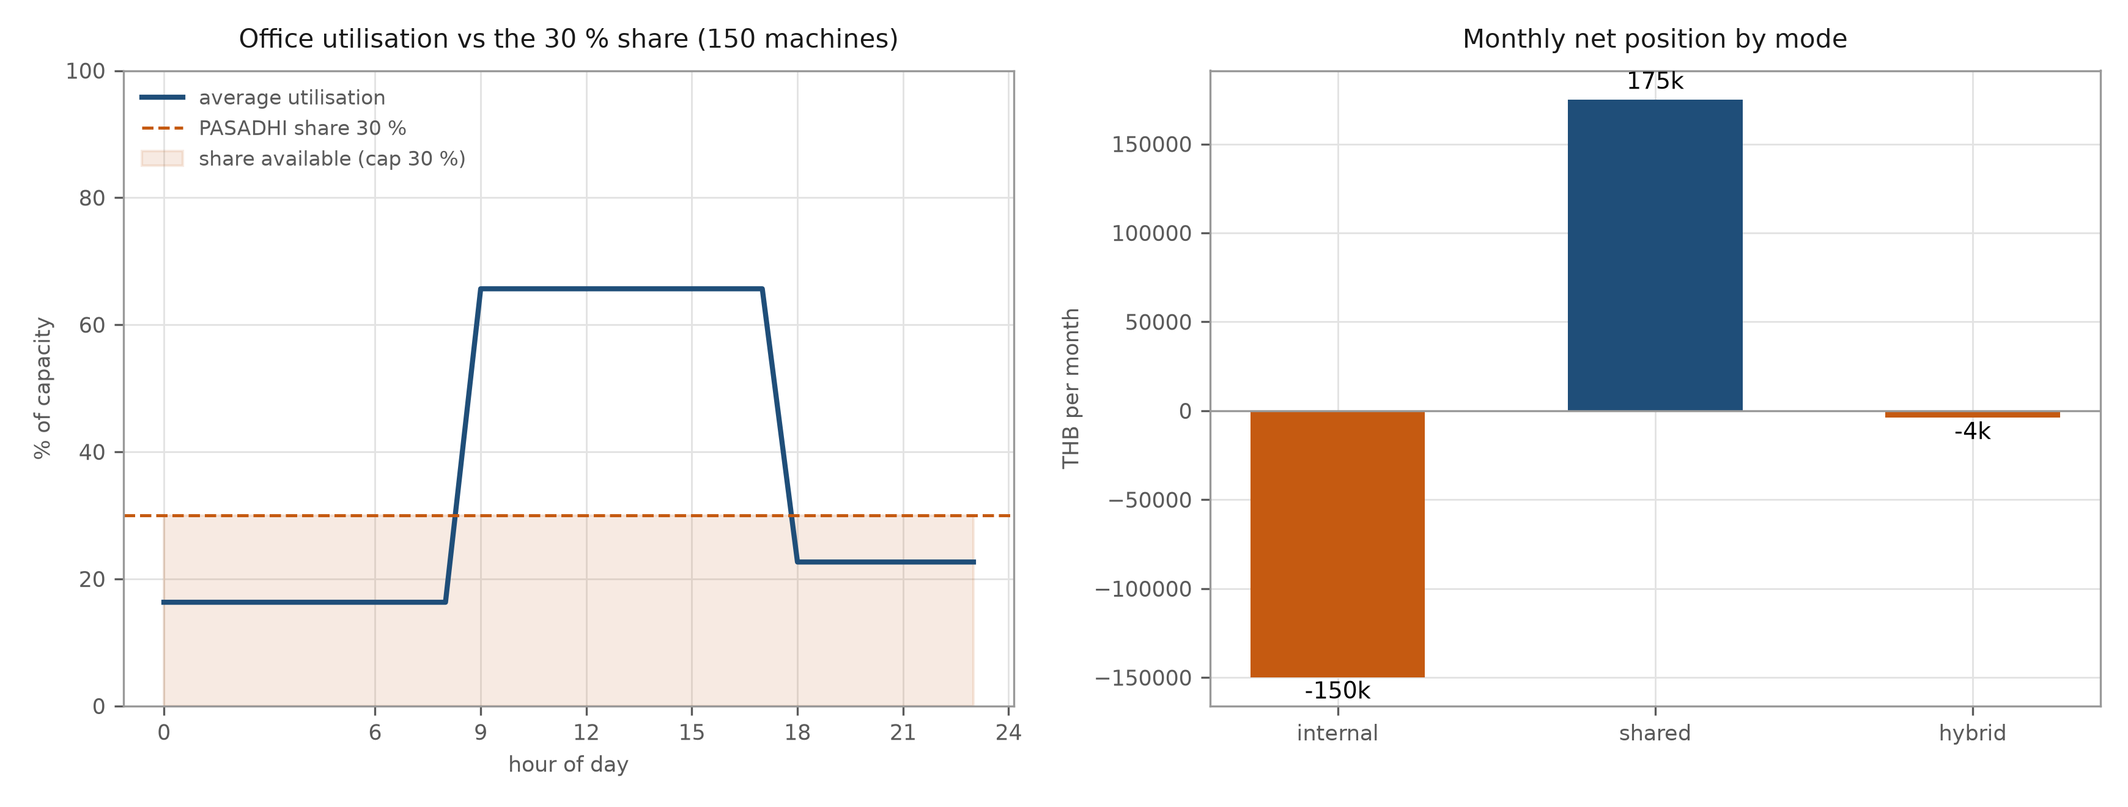
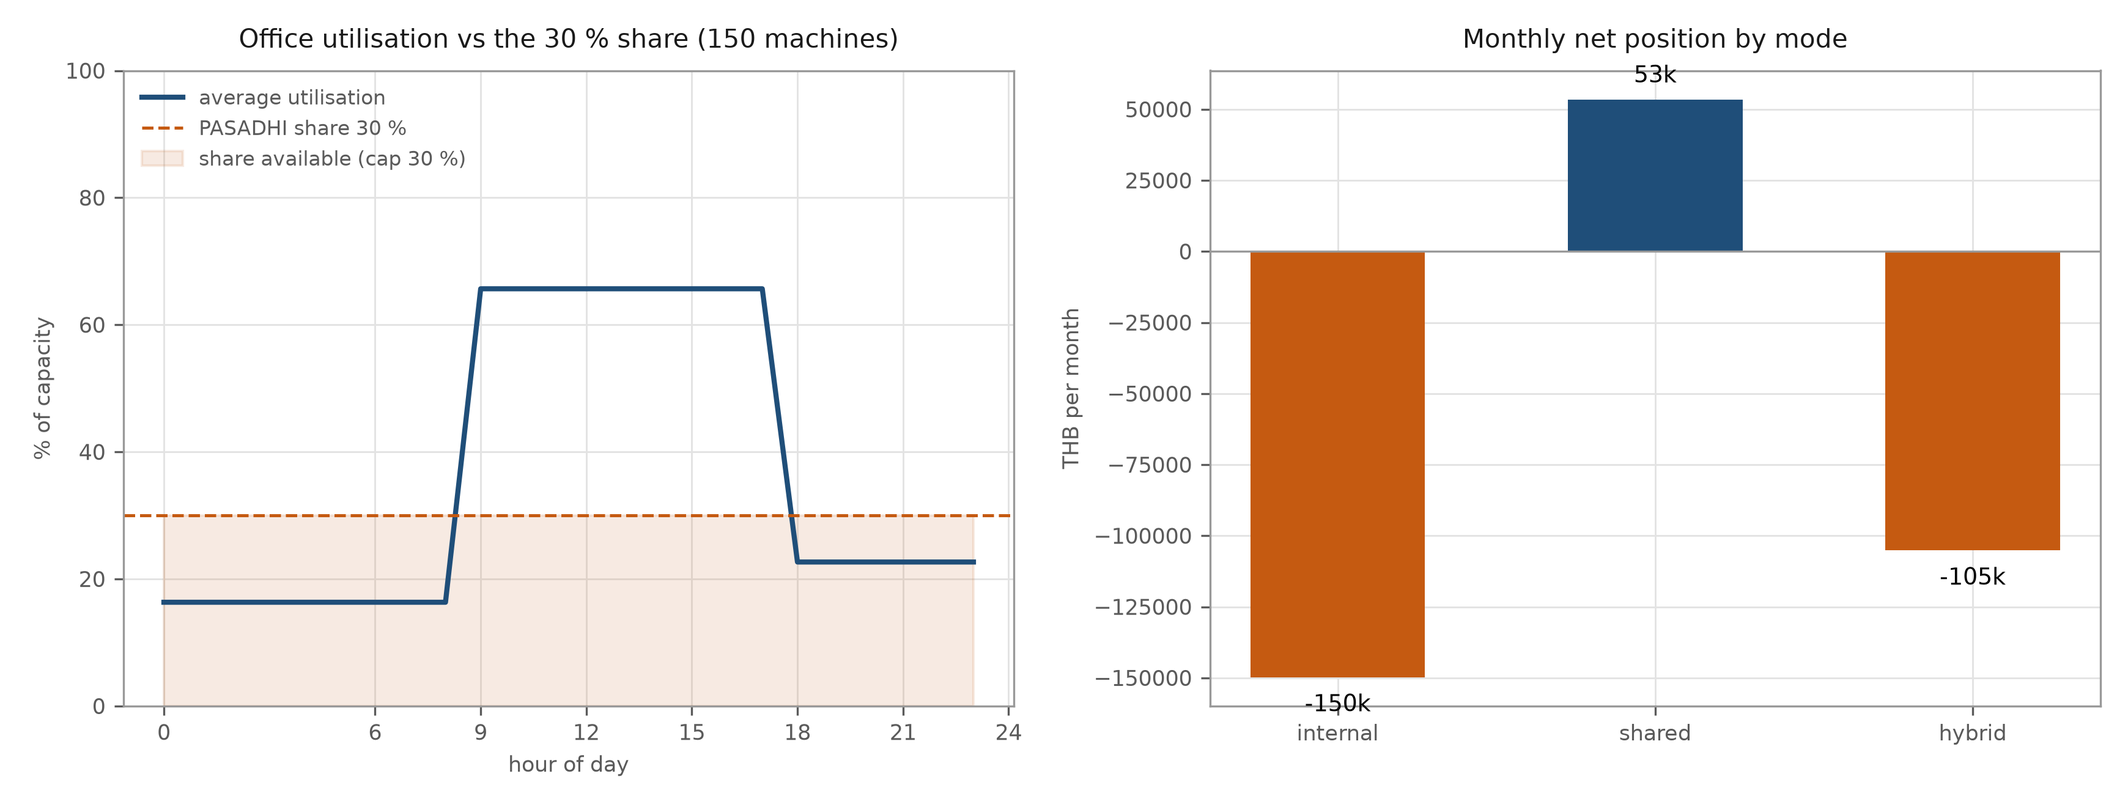
feat(pricing): pay by measured impact weight, not a flat rate per core-hour
- app/impact.py: weights from the resource sweep (CPU 98 %, RAM 0.4 %, disk 1.0 %,
  net 0.6 %; with a GTX 1050: CPU 56.6 %, GPU 42.2 %), pool 2.50 THB/h per 4 threads
- app/budget.py and app/group.py now delegate to impact valuation
- consequence, stated plainly: at a 30 % share the group earns 53 460 THB/month,
  not 175 032; break-even needs ~60 % share or a ~350 THB subscription
- docs/IMPACT_PRICING.th.md, corrected numbers in docs/GROUP.th.md, fig07 rebuilt

diff --git a/app/group.py b/app/group.py
@@ -15,6 +15,12 @@ import argparse
 import hashlib
 import json
 import secrets
+import sys
+from pathlib import Path
+
+if __package__ in (None, ''):
+    sys.path.insert(0, str(Path(__file__).resolve().parents[2]))
+
 from dataclasses import dataclass, field, asdict
 from pathlib import Path
 
@@ -58,54 +64,66 @@ class Group:
 BANDS = {'day': (9, 18), 'evening': (18, 24), 'night': (0, 9)}
 
 
-def node_hours_available(group: Group, days=30, weekday_ratio=0.73) -> dict:
-    """How many node-hours per month can actually be shared, given each machine's own utilisation."""
-    total = {'day': 0.0, 'evening': 0.0, 'night': 0.0}
+def machine_hours_month(group: Group, days=30) -> list:
+    """Usable hours per machine type per month, honouring each machine's own utilisation."""
+    weekday_days, weekend_days = 22, 8
+    rows = []
     for machine in group.machines:
+        hours = 0.0
         for band, (start, end) in BANDS.items():
-            hours = end - start
-            utilisation = machine.profile[band]
-            usable = max(0.0, min(group.share_pct, 1.0 - utilisation))
-            total[band] += usable * hours * machine.nodes
+            span = end - start
+            usable = max(0.0, min(group.share_pct, 1.0 - machine.profile[band]))
+            weekday = span if band != 'night' else 24  # night band is charged daily below
+            if band == 'night':
+                hours += usable * span * days
+            else:
+                hours += usable * span * weekday_days + usable * span * weekend_days
+        rows.append({'machine': machine, 'hours_month': hours * machine.nodes})
+    return rows
 
-    weekday_hours = total['day'] * 22 + total['evening'] * 22 + total['night'] * 30
-    weekend_hours = total['day'] * 8 + total['evening'] * 8 + total['night'] * 8
-    month_hours = weekday_hours + weekend_hours
-    return {'band_hours_per_day': {k: round(v, 1) for k, v in total.items()},
-            'node_hours_month': round(month_hours, 0),
-            'thread_hours_month': round(month_hours * (sum(m.threads * m.nodes for m in group.machines)
-                                                       / max(1, sum(m.nodes for m in group.machines))), 0)}
+
+def node_hours_available(group: Group, days=30) -> dict:
+    rows = machine_hours_month(group, days)
+    total = sum(row['hours_month'] for row in rows)
+    threads = sum(m.threads * m.nodes for m in group.machines)
+    machines = sum(m.nodes for m in group.machines)
+    return {'node_hours_month': round(total, 0),
+            'thread_hours_month': round(total * (threads / max(1, machines)), 0)}
 
 
 def economics(group: Group) -> dict:
+    from pasadhi.app import impact
+
     totals = group.totals()
-    hours = node_hours_available(group)
-    threads_per_node = totals['threads'] / max(1, totals['machines'])
-    shared_thread_hours = hours['node_hours_month'] * threads_per_node
+    rows = machine_hours_month(group)
+    shared = 0.0
+    for row in rows:
+        machine = row['machine']
+        result = impact.node_value(
+            impact.Share(cpu_pct=int(group.share_pct * 100), gpu_pct=0, ram_pct=int(group.share_pct * 100),
+                         disk_pct=int(group.share_pct * 100), network_pct=int(group.share_pct * 100)),
+            threads=machine.threads, ram_gb=32.0, vram_gb=0.0)
+        shared += row['hours_month'] * result['hourly_thb']
 
-    shared_earnings = shared_thread_hours * RATE_PER_CORE_HOUR_THB
-
-    list_price = LIST_PRICE_THB * (1 - GROUP_DISCOUNT) if group.plan != 'premium' else PREMIUM_PRICE_THB * (1 - GROUP_DISCOUNT * 0.5)
+    list_price = (LIST_PRICE_THB * (1 - GROUP_DISCOUNT) if group.plan != 'premium'
+                  else PREMIUM_PRICE_THB * (1 - GROUP_DISCOUNT * 0.5))
     subscription = list_price * totals['machines']
 
     if group.mode == 'internal':
         net = -subscription
     elif group.mode == 'shared':
-        net = shared_earnings
+        net = shared
     else:
         reserved = group.reserve_pct / max(group.share_pct, 1e-9)
-        net = shared_earnings * (1 - reserved) - subscription
-
-    capacity_gflops = totals['peak_gflops'] * group.share_pct
+        net = shared * (1 - reserved) - subscription
 
     return {
         'machines': totals['machines'],
         'threads': totals['threads'],
         'peak_gflops': totals['peak_gflops'],
-        'shared_capacity_gflops': round(capacity_gflops, 1),
-        'node_hours_month': hours['node_hours_month'],
-        'shared_thread_hours_month': round(shared_thread_hours, 0),
-        'shared_earnings_thb_month': round(shared_earnings, 0),
+        'shared_capacity_gflops': round(totals['peak_gflops'] * group.share_pct, 1),
+        'node_hours_month': node_hours_available(group)['node_hours_month'],
+        'shared_earnings_thb_month': round(shared, 0),
         'subscription_thb_month': round(subscription, 0),
         'net_thb_month': round(net, 0),
         'per_node_month': round(net / totals['machines'], 0),

diff --git a/app/impact.py b/app/impact.py
@@ -1,0 +1,97 @@
+"""Value a contribution by the measured impact of each resource, not by a flat rate.
+
+The weights come from `bench/results/resource_impact.json` (measured on an i7-8550U):
+    CPU 98.0 % · RAM 0.4 % · DISK 1.0 % · NET 0.6 %            (no NVIDIA GPU)
+    CPU 56.6 % · GPU 42.2 % · RAM 0.2 % · DISK 0.6 % · NET 0.4 % (with a GTX 1050)
+
+A node-hour is worth `pool` THB, and the user receives `pool × Σ(share_i × weight_i)`.
+Sharing 100 % of a 4-thread reference node therefore pays exactly 2.50 THB/hour, which is the credit rate
+used by the commercial model. Two other profiles exist because the weights are workload-dependent: when jobs
+are large, RAM becomes the gate; when the fleet is GPU-heavy, the card dominates.
+"""
+from __future__ import annotations
+
+import sys
+from pathlib import Path
+
+if __package__ in (None, ''):
+    sys.path.insert(0, str(Path(__file__).resolve().parents[2]))
+
+from dataclasses import dataclass
+
+# Measured shares (this host / with a card) and two workload-dependent assumptions.
+PROFILES = {
+    'small_jobs': {'CPU': 0.980, 'GPU': 0.000, 'RAM': 0.004, 'DISK': 0.010, 'NET': 0.006},
+    'with_gpu': {'CPU': 0.566, 'GPU': 0.422, 'RAM': 0.002, 'DISK': 0.006, 'NET': 0.004},
+    'large_jobs': {'CPU': 0.550, 'GPU': 0.000, 'RAM': 0.300, 'DISK': 0.100, 'NET': 0.050},
+}
+
+POOL_THB_PER_REFERENCE_HOUR = 2.50   # 4 threads, fully shared
+REFERENCE_THREADS = 4
+GPU_POOL_THB_PER_HOUR = 3.00         # a 2 GB class card at 100 %
+
+
+@dataclass
+class Share:
+    cpu_pct: int = 20
+    gpu_pct: int = 0
+    ram_pct: int = 10
+    disk_pct: int = 5
+    network_pct: int = 10
+
+    def fractions(self) -> dict:
+        return {'CPU': self.cpu_pct / 100, 'GPU': self.gpu_pct / 100, 'RAM': self.ram_pct / 100,
+                'DISK': self.disk_pct / 100, 'NET': self.network_pct / 100}
+
+
+def weights(profile: str = 'auto', has_gpu: bool = False) -> dict:
+    if profile == 'auto':
+        profile = 'with_gpu' if has_gpu else 'small_jobs'
+    return PROFILES[profile]
+
+
+def node_value(share: Share, threads: int = 4, ram_gb: float = 8.0, vram_gb: float = 0.0,
+               profile: str = 'auto') -> dict:
+    has_gpu = vram_gb > 0 and share.gpu_pct > 0
+    weight = weights(profile, has_gpu)
+
+    cpu_pool = POOL_THB_PER_REFERENCE_HOUR * max(threads, 1) / REFERENCE_THREADS
+    fractions = share.fractions()
+    contribution = {name: fractions[name] * weight.get(name, 0.0) for name in fractions}
+    cpu_hourly = cpu_pool * sum(value for name, value in contribution.items() if name != 'GPU')
+
+    gpu_hourly = 0.0
+    if has_gpu:
+        gpu_hourly = GPU_POOL_THB_PER_HOUR * max(vram_gb, 1.0) / 2.0 * fractions['GPU']
+
+    hourly = cpu_hourly + gpu_hourly
+    return {
+        'profile': profile,
+        'weights': weight,
+        'weighted_fraction': round(sum(contribution.values()), 4),
+        'contribution': {name: round(value, 4) for name, value in contribution.items()},
+        'hourly_thb': round(hourly, 3),
+        'daily_thb': round(hourly * 24, 2),
+        'monthly_thb': round(hourly * 24 * 30, 0),
+        'detail': {'cpu_pool_thb': round(cpu_pool, 2), 'cpu_part': round(cpu_hourly, 3),
+                   'gpu_part': round(gpu_hourly, 3)},
+    }
+
+
+def explain(result: dict) -> str:
+    lines = [f"profile {result['profile']} → weighted {result['weighted_fraction']*100:.2f} % of the pool"]
+    for name, value in result['contribution'].items():
+        if value:
+            lines.append(f'  {name:<5} {value*100:6.2f} % of pool → {result["detail"]["cpu_pool_thb"]*value:.3f} ฿/h')
+    lines.append(f"total {result['hourly_thb']} ฿/h ≈ {result['monthly_thb']:,.0f} ฿/month")
+    return '\n'.join(lines)
+
+
+if __name__ == '__main__':
+    for profile in ('small_jobs', 'with_gpu'):
+        for share in (Share(20, 0, 10, 5, 10), Share(35, 0, 20, 10, 20), Share(90, 100, 40, 20, 40)):
+            result = node_value(share, threads=8, ram_gb=16, vram_gb=2 if profile == 'with_gpu' else 0,
+                                profile=profile)
+            print(f'--- {profile} · CPU {share.cpu_pct}% GPU {share.gpu_pct}% RAM {share.ram_pct}% '
+                  f'DISK {share.disk_pct}% NET {share.network_pct}%')
+            print(explain(result))

diff --git a/app/budget.py b/app/budget.py
@@ -6,7 +6,12 @@ for a reference machine and scales linearly with what the user actually offers.
 """
 from __future__ import annotations
 
+import sys
 from dataclasses import dataclass, asdict
+from pathlib import Path
+
+if __package__ in (None, ''):
+    sys.path.insert(0, str(Path(__file__).resolve().parents[2]))
 
 REFERENCE = {'cores': 4, 'ram_gb': 8, 'disk_gb': 64, 'mbps': 100, 'gpu': 0.0}
 REFERENCE_HOURLY_THB = 2.5
@@ -55,19 +60,28 @@ def limits(share: Share, cores: int, ram_gb: float, disk_free_gb: float, mbps: f
 
 def hourly_earnings(share: Share, cores: int, ram_gb: float, disk_free_gb: float, mbps: float,
                     vram_gb: float = 0.0) -> dict:
-    lim = limits(share, cores, ram_gb, disk_free_gb, mbps, vram_gb)
-    cpu = lim['cpu_cores'] * RATE_PER_CORE_H
-    ram = lim['ram_gb'] * RATE_PER_GB_RAM_H
-    gpu = (lim['gpu_hours_share'] * RATE_PER_GPU_HOUR * max(1.0, vram_gb / 2)) if share.gpu_pct else 0.0
-    disk = lim['disk_gb'] * (RATE_PER_GB_DISK_MONTH / 730) if lim['disk_gb'] else 0.0
-    net = lim['mbps'] * 3600 / 8 / 1024 * (share.network_pct / 100) * 0  # traffic is metered on delivery
-    net = 0.0
-    total = cpu + ram + gpu + disk + net
+    """Payout follows the measured impact of each resource (`app/impact.py`), not a flat rate."""
+    from pasadhi.app import impact
+
+    result = impact.node_value(
+        impact.Share(cpu_pct=share.cpu_pct, gpu_pct=share.gpu_pct, ram_pct=share.ram_pct,
+                     disk_pct=share.disk_pct, network_pct=share.network_pct),
+        threads=cores, ram_gb=ram_gb, vram_gb=vram_gb * (share.gpu_pct / 100))
+    pool = result['detail']['cpu_pool_thb']
+    contribution = result['contribution']
     return {
-        'hourly_thb': round(total, 3),
-        'daily_thb': round(total * 24, 2),
-        'monthly_thb': round(total * 24 * 30, 0),
-        'breakdown': {'cpu': round(cpu, 3), 'ram': round(ram, 3), 'gpu': round(gpu, 3), 'disk': round(disk, 3)},
+        'hourly_thb': result['hourly_thb'],
+        'daily_thb': result['daily_thb'],
+        'monthly_thb': result['monthly_thb'],
+        'breakdown': {
+            'cpu': round(contribution['CPU'] * pool, 3),
+            'ram': round(contribution['RAM'] * pool, 3),
+            'gpu': result['detail']['gpu_part'],
+            'disk': round(contribution['DISK'] * pool, 3),
+            'net': round(contribution['NET'] * pool, 3),
+        },
+        'weights': result['weights'],
+        'weighted_fraction': result['weighted_fraction'],
     }
 
 

diff --git a/docs/IMPACT_PRICING.th.md b/docs/IMPACT_PRICING.th.md
@@ -1,0 +1,88 @@
+# มูลค่าการแชร์คิดตามน้ำหนัก impact (%)
+
+**ฉบับแก้ไขโมเดล · 2026-10-22** · โค้ด: `pasadhi/app/impact.py` · ข้อมูล: `bench/results/resource_impact.json`
+
+> **สรุปสั้น:** เปลี่ยนจากการจ่าย "เหมาราคาต่อ core-ชั่วโมง" มาเป็น **แบ่ง pool ตามน้ำหนัก impact ที่วัดได้**
+> ผลคือ CPU ได้เกือบทั้งหมด, RAM/Disk/Net ได้เศษเสี้ยว (เพราะไม่ได้อยู่บนเส้นทางวิกฤต) และ GPU ได้ 42 % เมื่อมี
+
+---
+
+## 1. สูตร
+
+```
+ค่าตอบแทนต่อชั่วโมง = pool × Σ (share_i × weight_i) + GPU_part
+
+pool       = 2.50 บาท/ชม. × (threads ÷ 4)        ← เครื่อง 4 threads เต็มร้อย = 2.50 พอดี
+weight_i   = น้ำหนัก impact ที่วัดได้ (ผลรวม = 1.0)
+share_i    = % ที่ผู้ใช้ตั้งให้ทรัพยากรนั้น
+GPU_part   = 3.00 บาท/ชม. × (VRAM ÷ 2GB) × share_gpu
+```
+
+## 2. น้ำหนักที่ใช้ (วัดจริง)
+
+| โปรไฟล์ | CPU | GPU | RAM | Disk | Net |
+|---|---:|---:|---:|---:|---:|
+| `small_jobs` (ไม่มี GPU) | **98.0 %** | 0 | 0.4 % | 1.0 % | 0.6 % |
+| `with_gpu` (มี GTX 1050) | 56.6 % | **42.2 %** | 0.2 % | 0.6 % | 0.4 % |
+| `large_jobs` (สมมติฐาน) | 55.0 % | 0 | **30.0 %** | 10.0 % | 5.0 % |
+
+สองโปรไฟล์แรกมาจากการวัด (fig06) · `large_jobs` เป็นสมมติฐานสำหรับงานที่ RAM เป็นตัวจำกัดขนาดงาน
+
+## 3. ตัวอย่างการจ่ายจริง (เครื่อง 8 threads)
+
+| ตั้งค่า | weighted | บาท/ชม. | บาท/เดือน |
+|---|---:|---:|---:|
+| CPU 20 / RAM 10 / Disk 5 / Net 10 | 11.4 % | 0.57 | 411 |
+| CPU 35 / RAM 20 / Disk 10 / Net 20 | 20.0 % | 1.00 | 720 |
+| CPU 90 / RAM 40 / Disk 20 / Net 40 | 93.5 %* | 4.44 | 3,197 |
+
+\* โปรไฟล์ `small_jobs`; ถ้าเป็นการ์ดจอ GTX 1050 ที่ GPU 100 % ด้วย → 5.57 บาท/ชม. (4,007 บาท/เดือน)
+
+**สังเกต:** RAM 40 % ให้เงินเพียง 0.004 บาท/ชม. — ตรงตามที่วัดว่า RAM ไม่ได้เพิ่ม throughput
+(แต่มันกำหนด *ขนาดงานที่รับได้* ซึ่งควรจ่ายเป็น "โบนัสงานใหญ่" แยกต่างหาก — ดู §6)
+
+## 4. ผลต่อ Group (150 เครื่อง) — ตัวเลขเปลี่ยนมาก
+
+| โหมด | เดิม (เหมาราคา 0.55/thread-ชม.) | **ใหม่ (ตาม impact)** |
+|---|---:|---:|
+| Internal | −฿149,745 | −฿149,745 |
+| Shared (30 %) | +฿175,032 | **+฿53,460** |
+| Hybrid (30 %, reserve 5 %) | −฿3,885 | **−฿105,195** |
+
+**ข้อสรุปที่ต้องยอมรับ:** ที่ส่วนแบ่ง 30 % การแชร์ **ไม่พอจ่ายค่าบริการ** อีกต่อไป
+ตัวเลขเดิมสูงเกินเพราะคิด thread-hours ซ้ำกับ pool
+
+### จุดคุ้มทุน (subscription ฿998/เครื่อง/เดือน)
+
+| share | รายได้/เครื่อง/เดือน | คุ้มทุนหรือไม่ |
+|---:|---:|---|
+| 20 % | ฿163 | ไม่ |
+| 30 % | ฿356 | ไม่ |
+| 50 % | ฿843 | เกือบ |
+| **60 %** | **~฿1,100** | **คุ้มทุน** |
+| 70 % | ฿1,456 | คุ้ม + เหลือ |
+| 90 % | ฿2,186 | คุ้มมาก |
+
+**ทางเลือกเชิงธุรกิจ 3 ทาง:**
+1. ลด subscription กลุ่มเหลือ **฿350/เครื่อง/เดือน** → 30 % ก็คุ้มทุน (แต่ margin หาย)
+2. ขายเป็น "แชร์ 60 % แลกใช้ฟรี" — ขายง่ายและตัวเลขชัด
+3. เพิ่มมูลค่า credit (เช่น 1.5×) เฉพาะงานที่ตรงกับความต้องการของเครือข่าย (ราคา dynamic)
+
+## 5. ทำไมวิธีนี้ยุติธรรมกว่า
+
+- ผู้ที่ให้ **CPU** (ตัวที่ทำให้งานเสร็จจริง) ได้เงินเกือบทั้งหมด — ตรงกับฟิสิกส์
+- ผู้ที่ให้ **RAM/Disk ว่าง** ได้เล็กน้อย แต่ยังได้ *สิทธิ์รับงานใหญ่* (ซึ่งมีค่ามากกว่าเงิน)
+- เครื่องมี **GPU** ได้ 42 % ของ pool — สูงกว่า CPU ต่อเครื่องอย่างมีนัยสำคัญ
+- ไม่มีใครได้เงินจากการเปิดเครื่องทิ้งไว้เฉย ๆ เพราะค่าน้ำหนักมาจาก throughput ไม่ใช่ uptime
+
+## 6. ข้อเสนอถัดไป (ต้องทดลอง)
+
+- **โบนัสงานใหญ่:** ถ้างานใช้ RAM > 50 % ของที่ให้ → จ่ายเพิ่ม 1.5× (เพราะ RAM gate ขนาดงาน)
+- **ราคา dynamic ตามคิว:** ถ้าคิว CPU ยาว → weight CPU เพิ่มชั่วคราว
+- **น้ำหนักต่อกลุ่ม:** วัด utilisation จริง 2 สัปดาห์แล้วปรับ `PROFILES` ให้ตรงลูกค้า
+
+## 7. ข้อจำกัด
+
+- น้ำหนักมาจากเครื่องเดียว (i7-8550U) — เครื่องเซิร์ฟเวอร์จริงอาจให้น้ำหนัก RAM สูงกว่านี้
+- `large_jobs` เป็นสมมติฐาน ยังไม่ได้วัด
+- pool 2.50 บาท/ชม. อิงจาก credit rate ในโมเดลธุรกิจ ไม่ใช่ราคาตลาดที่ทดสอบแล้ว

diff --git a/docs/GROUP.th.md b/docs/GROUP.th.md
@@ -33,7 +33,7 @@
 | threads รวม | 1,360 |
 | peak รวม | 7,880 GFLOP/s (desktop 74, server 120, notebook 60 ต่อเครื่อง) |
 | **ที่แบ่งให้ PASADHI 30 %** | **3,564 GFLOP/s** |
-| node-hours/เดือน (หลังหักงานประจำ) | **35,100** |
+| node-hours/เดือน (หลังหักงานประจำ) | **31,860** |
 | thread-hours/เดือน | 318,240 |
 
 รูปแบบการใช้งานที่ใช้คำนวณ: desktop 65 % (09–18) / 15 % (18–24) / 10 % (00–09) · server 80/70/60 · notebook 45/20/5
@@ -43,11 +43,11 @@
 | โหมด | จ่าย/ได้ | สุทธิ | ต่อเครื่อง |
 |---|---:|---:|---:|
 | **Internal** (ใช้เอง) | จ่าย subscription ฿149,745 | **−฿149,745** | −฿998 |
-| **Shared** (ปล่อยแชร์) | ได้ credit ฿175,032 | **+฿175,032** | +฿1,167 |
-| **Hybrid** (reserve 5 % ใช้เอง + ที่เหลือแชร์) | ได้ ฿175,032 − จ่าย ฿149,745 | **−฿3,885** | −฿26 |
+| **Shared** (ปล่อยแชร์ 30 %) | ได้ credit ฿53,460 | **+฿53,460** | +฿356 |
+| **Hybrid** (reserve 5 % ใช้เอง + ที่เหลือแชร์) | ได้ ฿53,460 − จ่าย ฿149,745 | **−฿105,195** | −฿701 |
 
-> **Hybrid คือจุดที่ควรขายที่สุด:** ปล่อยแชร์ 30 % (กันไว้ใช้เอง 5 %) แล้ว **เกือบเท่าทุนพอดี**
-> — องค์กรได้ระบบมาใช้ฟรีในทางปฏิบัติ หรือเลือก Shared อย่างเดียวเพื่อให้เป็นรายได้
+> **ตัวเลขนี้คิดตามน้ำหนัก impact แล้ว** (CPU 98 %, RAM 0.4 %, Disk 1 %, Net 0.6 % — `docs/IMPACT_PRICING.th.md`)
+> ที่ 30 % การแชร์ **ยังไม่พอจ่ายค่าบริการ** ต้องแบ่ง ~60 % จึงคุ้มทุน หรือลดราคากลุ่มเหลือ ~฿350/เครื่อง/เดือน
 
 ![fig07](bench/results/fig07_group.png)
 

diff --git a/docs/TOKEN_ECONOMY.th.md b/docs/TOKEN_ECONOMY.th.md
@@ -7,6 +7,8 @@
 
 ---
 
+> **อัปเดต 2026-10-22:** การจ่าย credit เปลี่ยนเป็นคิดตาม **น้ำหนัก impact ที่วัดได้** (CPU 98 %, RAM 0.4 %, Disk 1 %, Net 0.6 %; GPU 42 % เมื่อมี) — ดู IMPACT_PRICING.th.md ตัวเลขในไฟล์นี้ยังใช้เป็นภาพรวมระดับธุรกิจ แต่การจ่ายรายเครื่องให้ยึดสูตร impact
+
 ## 1. แบ่งชั้นการให้บริการ (Layer split)
 
 | Layer | สัดส่วน | ใคร | จ่ายอะไร | ได้อะไร |

diff --git a/README.md b/README.md
@@ -39,6 +39,7 @@ network), a live earnings estimate, the per-install device token and a boot-time
 - Try it: python pasadhi/app/install.py && python pasadhi/app/service.py --port 8765
 - Hardware and per-resource impact (Thai): [docs/RESOURCE_IMPACT.th.md](docs/RESOURCE_IMPACT.th.md)
 - Group worker (100–200 machines, one id, internal/shared/hybrid): [docs/GROUP.th.md](docs/GROUP.th.md)
+- Payout follows measured impact weights: [docs/IMPACT_PRICING.th.md](docs/IMPACT_PRICING.th.md)
 
 
 
